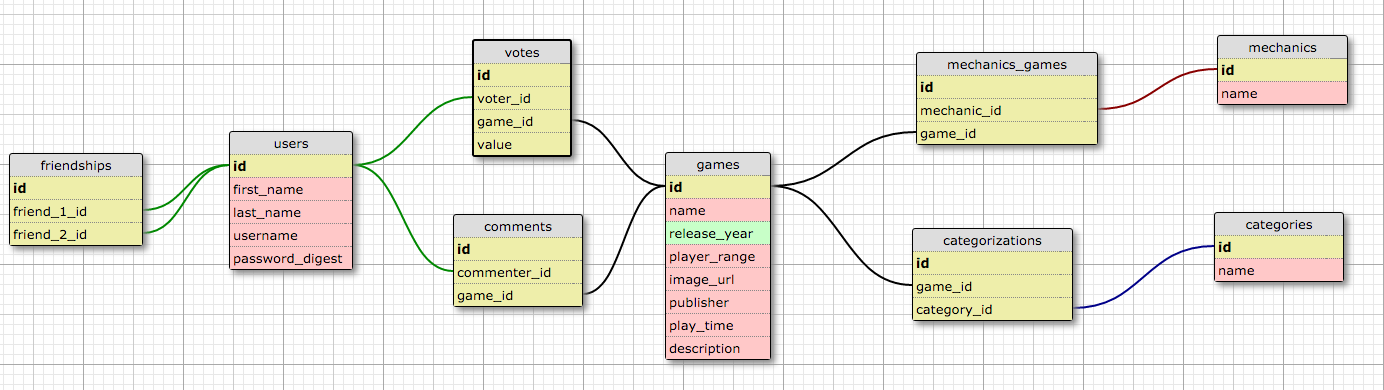
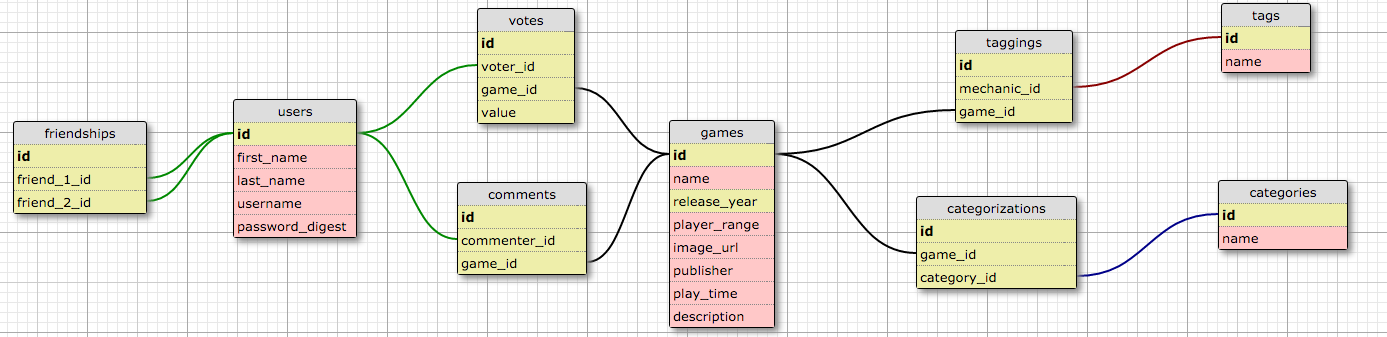
Created models/migrations

Changed region(s): [[0.0, 0.0, 1.0, 1.0], [0.0, 0.8012, 0.2796, 0.8605], [0.0, 0.089, 0.2796, 0.1187]]

diff --git a/db/schema.rb b/db/schema.rb
@@ -1,0 +1,88 @@
+# encoding: UTF-8
+# This file is auto-generated from the current state of the database. Instead
+# of editing this file, please use the migrations feature of Active Record to
+# incrementally modify your database, and then regenerate this schema definition.
+#
+# Note that this schema.rb definition is the authoritative source for your
+# database schema. If you need to create the application database on another
+# system, you should be using db:schema:load, not running all the migrations
+# from scratch. The latter is a flawed and unsustainable approach (the more migrations
+# you'll amass, the slower it'll run and the greater likelihood for issues).
+#
+# It's strongly recommended that you check this file into your version control system.
+
+ActiveRecord::Schema.define(version: 20160307200455) do
+
+  # These are extensions that must be enabled in order to support this database
+  enable_extension "plpgsql"
+
+  create_table "categories", force: :cascade do |t|
+    t.string   "name"
+    t.datetime "created_at", null: false
+    t.datetime "updated_at", null: false
+  end
+
+  create_table "categorizations", force: :cascade do |t|
+    t.integer  "game_id"
+    t.integer  "category_id"
+    t.datetime "created_at",  null: false
+    t.datetime "updated_at",  null: false
+  end
+
+  create_table "comments", force: :cascade do |t|
+    t.integer  "commenter_id"
+    t.integer  "game_id"
+    t.datetime "created_at",   null: false
+    t.datetime "updated_at",   null: false
+  end
+
+  create_table "friendships", force: :cascade do |t|
+    t.integer  "friend_1_id"
+    t.integer  "friend_2_id"
+    t.datetime "created_at",  null: false
+    t.datetime "updated_at",  null: false
+  end
+
+  create_table "games", force: :cascade do |t|
+    t.string   "name"
+    t.integer  "release_year"
+    t.string   "player_range"
+    t.string   "image_url"
+    t.string   "publisher"
+    t.string   "play_time"
+    t.string   "description"
+    t.datetime "created_at",   null: false
+    t.datetime "updated_at",   null: false
+  end
+
+  create_table "taggings", force: :cascade do |t|
+    t.integer  "game_id"
+    t.integer  "tag_id"
+    t.datetime "created_at", null: false
+    t.datetime "updated_at", null: false
+  end
+
+  create_table "tags", force: :cascade do |t|
+    t.string   "name"
+    t.datetime "created_at", null: false
+    t.datetime "updated_at", null: false
+  end
+
+  create_table "users", force: :cascade do |t|
+    t.string   "first_name"
+    t.string   "last_name"
+    t.string   "username"
+    t.string   "password_digest"
+    t.datetime "created_at",      null: false
+    t.datetime "updated_at",      null: false
+  end
+
+  create_table "votes", force: :cascade do |t|
+    t.integer  "voter_id"
+    t.integer  "game_id"
+    t.integer  "value"
+    t.datetime "created_at", null: false
+    t.datetime "updated_at", null: false
+  end
+
+end

diff --git a/db/migrate/20160307200041_create_games.rb b/db/migrate/20160307200041_create_games.rb
@@ -1,0 +1,15 @@
+class CreateGames < ActiveRecord::Migration
+  def change
+    create_table :games do |t|
+      t.string :name
+      t.integer :release_year
+      t.string :player_range
+      t.string :image_url
+      t.string :publisher
+      t.string :play_time
+      t.string :description
+
+      t.timestamps null: false
+    end
+  end
+end

diff --git a/db/migrate/20160307195755_create_users.rb b/db/migrate/20160307195755_create_users.rb
@@ -1,0 +1,12 @@
+class CreateUsers < ActiveRecord::Migration
+  def change
+    create_table :users do |t|
+      t.string :first_name
+      t.string :last_name
+      t.string :username
+      t.string :password_digest
+
+      t.timestamps null: false
+    end
+  end
+end

diff --git a/db/migrate/20160307200305_create_votes.rb b/db/migrate/20160307200305_create_votes.rb
@@ -1,0 +1,11 @@
+class CreateVotes < ActiveRecord::Migration
+  def change
+    create_table :votes do |t|
+      t.integer :voter_id
+      t.integer :game_id
+      t.integer :value
+
+      t.timestamps null: false
+    end
+  end
+end

diff --git a/db/migrate/20160307200429_create_categorizations.rb b/db/migrate/20160307200429_create_categorizations.rb
@@ -1,0 +1,10 @@
+class CreateCategorizations < ActiveRecord::Migration
+  def change
+    create_table :categorizations do |t|
+      t.integer :game_id
+      t.integer :category_id
+
+      t.timestamps null: false
+    end
+  end
+end

diff --git a/db/migrate/20160307200211_create_friendships.rb b/db/migrate/20160307200211_create_friendships.rb
@@ -1,0 +1,10 @@
+class CreateFriendships < ActiveRecord::Migration
+  def change
+    create_table :friendships do |t|
+      t.integer :friend_1_id
+      t.integer :friend_2_id
+
+      t.timestamps null: false
+    end
+  end
+end

diff --git a/db/migrate/20160307200322_create_comments.rb b/db/migrate/20160307200322_create_comments.rb
@@ -1,0 +1,10 @@
+class CreateComments < ActiveRecord::Migration
+  def change
+    create_table :comments do |t|
+      t.integer :commenter_id
+      t.integer :game_id
+
+      t.timestamps null: false
+    end
+  end
+end

diff --git a/db/migrate/20160307200455_create_taggings.rb b/db/migrate/20160307200455_create_taggings.rb
@@ -1,0 +1,10 @@
+class CreateTaggings < ActiveRecord::Migration
+  def change
+    create_table :taggings do |t|
+      t.integer :game_id
+      t.integer :tag_id
+
+      t.timestamps null: false
+    end
+  end
+end

diff --git a/db/migrate/20160307200348_create_categories.rb b/db/migrate/20160307200348_create_categories.rb
@@ -1,0 +1,9 @@
+class CreateCategories < ActiveRecord::Migration
+  def change
+    create_table :categories do |t|
+      t.string :name
+
+      t.timestamps null: false
+    end
+  end
+end

diff --git a/db/migrate/20160307200338_create_tags.rb b/db/migrate/20160307200338_create_tags.rb
@@ -1,0 +1,9 @@
+class CreateTags < ActiveRecord::Migration
+  def change
+    create_table :tags do |t|
+      t.string :name
+
+      t.timestamps null: false
+    end
+  end
+end

diff --git a/app/models/categorization.rb b/app/models/categorization.rb
@@ -1,0 +1,2 @@
+class Categorization < ActiveRecord::Base
+end

diff --git a/app/models/friendship.rb b/app/models/friendship.rb
@@ -1,0 +1,2 @@
+class Friendship < ActiveRecord::Base
+end
